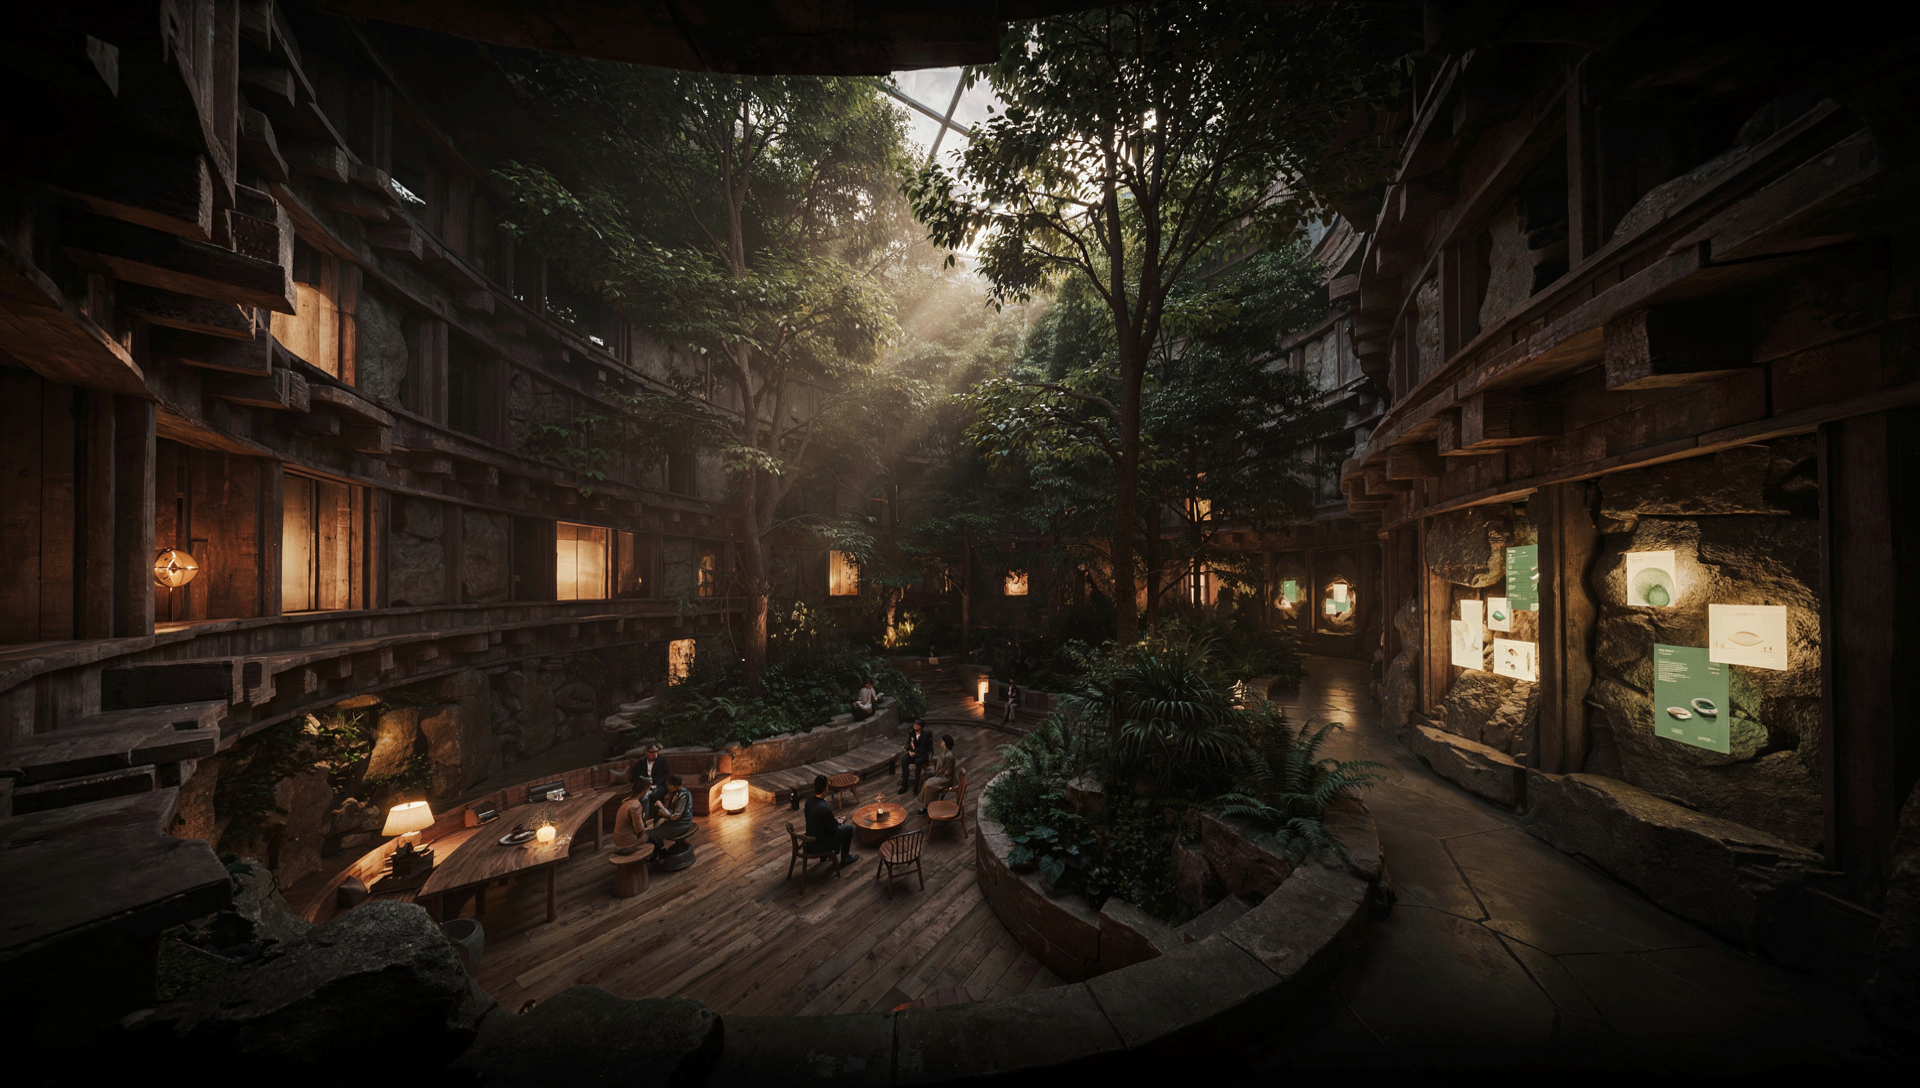
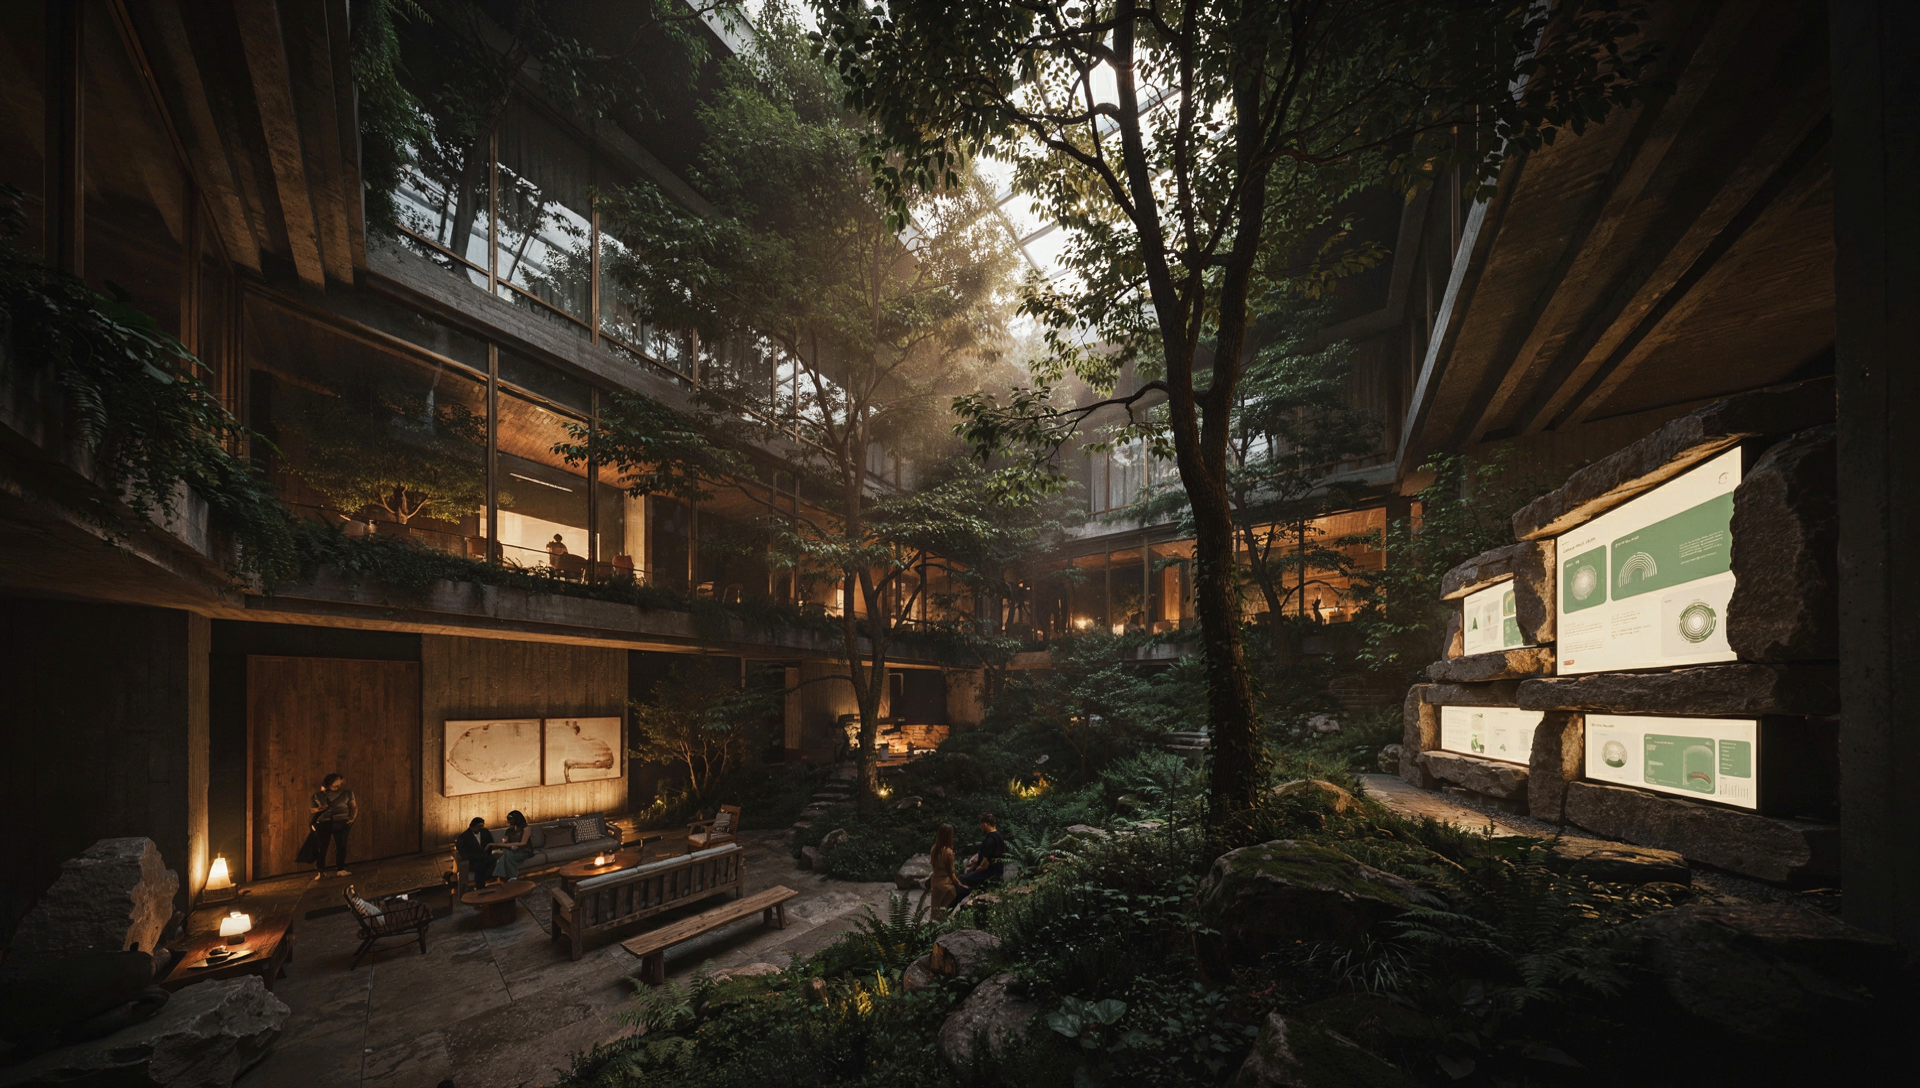
feat(assets): M2 imagery — Conservatory heroes, per-project marks, hero-fill fixes
Wallace-rendered finals wired across the portfolio (ADR-013 / DESIGN.md).

Heroes (V4_QUALITY_48): home atrium, a new /work atelier hero, Wallace
self-portrait, IDR admin-tasks crop, SOW toolbox-card crop.

Per-project drafted-object marks: new mark?:{src,thumb,alt} on CaseStudy.
Five instrument schematics (Caption Engine, Reading Loom, Scoping Armature,
First-Light, Doctrine Core) on the case-study shells, plus an infrastructure
lattice for the hub. Square thumbs on the work index, 4:5 plates on the
shells. All baked text stripped from marks (Ideogram gibberish risk).

Fixes:
- ImageBlock: bare covers now object-cover to fill the frame, per the
  component's own spec; resolves hero letterboxing.
- HeroScrim: token-only scrim; top fade blends a full-bleed hero under the
  sticky header (worst in light mode). Used by home + /work heroes.
- Wallace case study features the atelier render in-body.

lint + build + 139 tests green.

diff --git a/src/components/content/HeroScrim.tsx b/src/components/content/HeroScrim.tsx
@@ -1,0 +1,51 @@
+/**
+ * HeroScrim — token-only gradient overlay for full-bleed hero images.
+ *
+ * Two jobs:
+ *  1. Legibility: darken the edges where copy sits (bottom, left) so type holds
+ *     contrast over a busy atmospheric image.
+ *  2. Seam: fade the TOP edge into the page background so a hero that sits under
+ *     the sticky, translucent header doesn't meet it with a hard contrast line.
+ *     This matters most in light mode, where a dark hero against the light
+ *     header reads as an abrupt seam (Justin, 2026-06-25).
+ *
+ * All layers resolve to `--theme-bg-deep`, so the scrim re-tints itself per mode
+ * (humus-black at night, sand-light by day) and stays within the OKLCH token
+ * system — no literal colors. Stops are tunable per call site.
+ */
+interface HeroScrimProps {
+  /** Fade the top edge into the page bg (blends under the sticky header). */
+  top?: boolean;
+  /** Darken the bottom edge for copy legibility. */
+  bottom?: boolean;
+  /** Darken the left edge to anchor lower-left copy. */
+  left?: boolean;
+  /** How far down the top fade reaches before going transparent. */
+  topStop?: string;
+  className?: string;
+}
+
+export function HeroScrim({
+  top = true,
+  bottom = true,
+  left = false,
+  topStop = "16%",
+  className = "",
+}: HeroScrimProps) {
+  const layers = [
+    top &&
+      `linear-gradient(to bottom, var(--theme-bg-deep) 0%, transparent ${topStop})`,
+    bottom &&
+      "linear-gradient(to top, var(--theme-bg-deep) 6%, transparent 64%)",
+    left &&
+      "linear-gradient(to right, var(--theme-bg-deep) 4%, transparent 52%)",
+  ].filter(Boolean) as string[];
+
+  return (
+    <div
+      aria-hidden="true"
+      className={`absolute inset-0 -z-10 ${className}`}
+      style={{ background: layers.join(", ") }}
+    />
+  );
+}

diff --git a/src/pages/WorkPage.tsx b/src/pages/WorkPage.tsx
@@ -7,9 +7,11 @@ import { RevealOnScroll } from "@/components/effects/RevealOnScroll";
 import {
   DossierFrame,
   DossierTags,
+  RegistrationMark,
   TocLinkList,
   type TocItem,
 } from "@/components/fieldnotebook";
+import { HeroScrim } from "@/components/content/HeroScrim";
 import { caseStudies, metaCaseStudy } from "@core/content/case-studies";
 
 // Studies folded behind a hub are reached through it, not listed here.
@@ -21,7 +23,8 @@ const tocItems: TocItem[] = indexedStudies.map((study, i) => ({
   to: `/work/${study.slug}`,
   // No leading number — the thumbnail carries the visual index.
   thumbnail: {
-    alt: `${study.title} project mark`,
+    src: study.mark?.thumb,
+    alt: study.mark?.alt ?? `${study.title} project mark`,
     placeholder: `Fig.${String(i + 1).padStart(2, "0")}`,
   },
   description: study.subtitle,
@@ -92,20 +95,39 @@ export function WorkPage() {
         <link rel="canonical" href="https://justinh.design/work" />
       </Helmet>
 
-      <section className="py-24 sm:py-32">
-        <Container>
-          <p className="font-mono text-xs uppercase tracking-wider text-accent-primary">
-            Field notebook
-          </p>
-          <h1 className="mt-4 font-display text-3xl leading-tight tracking-tight text-text-primary sm:text-4xl">
-            Work
-          </h1>
-          <p className="mt-5 max-w-[65ch] font-body text-lg leading-normal text-text-secondary">
-            A working index of case files spanning AI strategy, enterprise UX, and
-            design systems. 
-          </p>
+      {/* Atelier hero - the workshop the case files come from. Field Notebook
+          grammar: registration marks frame the type, humus scrim anchors it
+          lower-left, top fade blends under the sticky header. */}
+      <section className="relative isolate flex min-h-[56vh] items-end overflow-hidden bg-bg-deep">
+        <img
+          src="/images/work-hero.png"
+          alt="A designer's atelier at night within a biophilic habitat, warm brass light over a workbench of instruments"
+          className="absolute inset-0 -z-10 h-full w-full object-cover object-center"
+          loading="eager"
+          fetchPriority="high"
+        />
+        <HeroScrim top bottom left />
 
-          <RevealOnScroll className="mt-14">
+        <Container className="relative z-10 pb-14 pt-32 sm:pb-20 sm:pt-40">
+          <div className="relative max-w-[60ch] py-8 pl-9 sm:py-10 sm:pl-14">
+            <RegistrationMark corners={["tl", "bl"]} />
+            <p className="font-mono text-xs uppercase tracking-wider text-accent-primary">
+              Field notebook
+            </p>
+            <h1 className="mt-4 font-display text-4xl leading-tight tracking-tight text-text-primary sm:text-5xl">
+              Work
+            </h1>
+            <p className="mt-5 max-w-[54ch] font-body text-lg leading-normal text-text-secondary">
+              A working index of case files spanning AI strategy, enterprise UX,
+              and design systems.
+            </p>
+          </div>
+        </Container>
+      </section>
+
+      <section className="py-20 sm:py-24">
+        <Container>
+          <RevealOnScroll>
             <FeaturedEntry />
           </RevealOnScroll>
 

diff --git a/core/content/case-studies.ts b/core/content/case-studies.ts
@@ -46,6 +46,15 @@ export interface CaseStudy {
     alt: string;
     placeholder?: string;
   };
+  /** Per-project drafted-object mark (ADR-013 / DESIGN.md): a modern
+   *  technical-schematic specimen of a fantastical instrument. `src` is the
+   *  4:5 plate (DraftedObjectMark on the case-study shell); `thumb` is the
+   *  square work-index crop. Hub studies may carry only a `thumb`. */
+  mark?: {
+    src?: string;
+    thumb?: string;
+    alt: string;
+  };
 }
 
 export const caseStudies: CaseStudy[] = [
@@ -59,6 +68,10 @@ export const caseStudies: CaseStudy[] = [
       src: '/images/design-infrastructure.png',
       alt: 'Design Infrastructure: the origin and the current state of an AI-native design practice',
       placeholder: 'Design Infrastructure hub cover (Wallace render pending)',
+    },
+    mark: {
+      thumb: '/images/design-infrastructure-thumb.png',
+      alt: 'Drafted technical schematic of a modular lattice substrate with instruments docked into its nodes',
     },
     hub: {
       headline: 'I build design infrastructure, not just designs.',
@@ -129,6 +142,10 @@ export const caseStudies: CaseStudy[] = [
       alt: 'AI workshop presentation showing the 6-step prototyping process',
       placeholder: 'Screenshot of "Building with AI Tools" presentation title slide, or a composite showing the Define→Scope→Plan→Build→Test→Iterate workflow',
     },
+    mark: {
+      src: '/images/ai-leadership-mark.png',
+      alt: 'Drafted technical schematic of a first-light apparatus, a single spark igniting a ring of small lamps',
+    },
   },
   {
     slug: 'doctrine-not-prompts',
@@ -150,6 +167,10 @@ export const caseStudies: CaseStudy[] = [
       alt: 'Team agent answering a project-specific question by reading version-controlled doctrine files',
       placeholder: 'Split view: a prompt to the team agent on the left, its project-specific answer on the right, with VECTOR.md, CLAUDE.md, and ARCHITECTURE.md labeled as the doctrine it read',
     },
+    mark: {
+      src: '/images/doctrine-not-prompts-mark.png',
+      alt: 'Drafted technical schematic of a governing core directing a calm orbit of small satellite forms',
+    },
   },
   {
     slug: 'instant-sow',
@@ -161,9 +182,14 @@ export const caseStudies: CaseStudy[] = [
       label: 'per SOW, observed',
     },
     heroImage: {
-      src: '/images/sow-toolbox.png',
+      src: '/images/sow-toolbox-hero.png',
       alt: 'My SOW Toolbox interface showing Upload, Describe, and Recycle options',
       placeholder: 'High-fidelity mockup of the "My Scope of Work Toolbox" UI showing the three AI-assisted paths: Upload Files, Describe Your Project, Select Previous SOW',
+    },
+    mark: {
+      src: '/images/instant-sow-mark.png',
+      thumb: '/images/instant-sow-thumb.png',
+      alt: 'Drafted technical schematic of a modular scoping armature, a jointed arm assembling measured parts on a base',
     },
   },
   {
@@ -176,9 +202,14 @@ export const caseStudies: CaseStudy[] = [
       label: 'less PSA review time per loan',
     },
     heroImage: {
-      src: '/images/idr-hifi.png',
-      alt: 'Property Admin Page showing extracted data alongside original document viewer',
+      src: '/images/idr-hero.png',
+      alt: 'Property Asset review page with an Action Required panel flagging six failed rules, each with a remark and rationale, above a pass/fail rules table',
       placeholder: 'High-fidelity mockup of the Property Admin Page with document viewer panel, extracted data fields, and rule override controls',
+    },
+    mark: {
+      src: '/images/instant-doc-review-mark.png',
+      thumb: '/images/instant-doc-review-thumb.png',
+      alt: 'Drafted technical schematic of a reading-and-extraction instrument lifting ordered points off a flat plane',
     },
   },
   {
@@ -194,6 +225,11 @@ export const caseStudies: CaseStudy[] = [
       src: '/images/wallace-hero.png',
       alt: 'Cinematic north-star render: a designer atelier at night in warm brass light with a Finn Juhl chair silhouette',
       placeholder: 'Wallace north-star hero: dark atmospheric atelier interior, volumetric warm-brass light through haze, a Finn Juhl lounge chair in shadow, a single dusty-magenta glow, with the structured JSON caption that produced it shown alongside',
+    },
+    mark: {
+      src: '/images/wallace-mark.png',
+      thumb: '/images/wallace-thumb.png',
+      alt: 'Drafted technical schematic of an optical compiler instrument resolving structured rays into one plane of light',
     },
   },
 ];

diff --git a/src/components/content/Hero.tsx b/src/components/content/Hero.tsx
@@ -1,6 +1,7 @@
 import { Container } from "@/components/layout/Container";
 import { Button } from "@/components/interactive/Button";
 import { RegistrationMark } from "@/components/fieldnotebook";
+import { HeroScrim } from "@/components/content/HeroScrim";
 
 /**
  * Home hero - "The Conservatory" register (ADR-013 / DESIGN.md).
@@ -24,16 +25,10 @@ export function Hero() {
         loading="eager"
         fetchPriority="high"
       />
-      {/* Warm scrim for legibility - humus-black, densest at lower-left.
-          References tokens only (bg-deep -> transparent), no literal color. */}
-      <div
-        aria-hidden="true"
-        className="absolute inset-0 -z-10"
-        style={{
-          background:
-            "linear-gradient(to top, var(--theme-bg-deep) 6%, transparent 64%), linear-gradient(to right, var(--theme-bg-deep) 4%, transparent 52%)",
-        }}
-      />
+      {/* Warm scrim - legibility at lower-left, plus a top fade so the image
+          blends under the sticky translucent header instead of meeting it with
+          a hard seam (most visible in light mode). Token-only, re-tints per mode. */}
+      <HeroScrim top bottom left />
 
       <Container className="relative z-10 pb-16 pt-32 sm:pb-24 sm:pt-44">
         {/* Type column framed as an instrument plate - registration marks in

diff --git a/src/components/content/ImageBlock.tsx b/src/components/content/ImageBlock.tsx
@@ -72,7 +72,12 @@ export function ImageBlock({
               src={src}
               alt={alt}
               loading="lazy"
-              className="absolute inset-0 h-full w-full object-contain"
+              className={cn(
+                "absolute inset-0 h-full w-full",
+                // Covers (DossierFrame heroes) fill to the frame edge; body
+                // figures stay fully visible. Matches the `bare` contract.
+                bare ? "object-cover" : "object-contain"
+              )}
             />
           </div>
         ) : (

diff --git a/src/components/content/CaseStudyPageTemplate.tsx b/src/components/content/CaseStudyPageTemplate.tsx
@@ -133,7 +133,8 @@ export function CaseStudyPageTemplate({ slug }: CaseStudyPageProps) {
               </div>
               <div className="lg:col-span-5">
                 <DraftedObjectMark
-                  alt={`${study.title} project mark`}
+                  src={study.mark?.src}
+                  alt={study.mark?.alt ?? `${study.title} project mark`}
                   kicker="Specimen"
                   caption={`Fig. ${slugify(study.slug)}`}
                   placeholder="Drafted object pending"

diff --git a/src/pages/HomePage.tsx b/src/pages/HomePage.tsx
@@ -23,7 +23,8 @@ export function HomePage() {
     to: `/work/${study.slug}`,
     label: study.title,
     thumbnail: {
-      alt: `${study.title} project mark`,
+      src: study.mark?.thumb,
+      alt: study.mark?.alt ?? `${study.title} project mark`,
       placeholder: `Fig.${String(i + 1).padStart(2, "0")}`,
     },
     kicker: study.tags.slice(0, 2).join(" / "),

diff --git a/core/content/wallace.md b/core/content/wallace.md
@@ -24,6 +24,9 @@ That's important because Wallace doesn't work alone. It sits inside my Impeccabl
 
 I didn't build Wallace to talk about it. I built it to make a decision. When this portfolio needed a new visual direction, I used Wallace to render four full north-star directions, monograph, atelier, field notebook, and a tech-and-nature conservatory, as finished hero images rather than mood boards. Eight heroes, fixed seeds, captions saved per image, about seven minutes per render on my M5 Max.
 
+![A designer's atelier at night within a biophilic habitat, warm brass light over a workbench of optical instruments, one of the four north-star directions Wallace rendered](/images/wallace-atelier.png)
+*The atelier direction, rendered by Wallace as a finished hero rather than a mood board. The instrument on the bench is the kind of object the schematic marks across this site abstract.*
+
 Seeing the directions fully realized gave me the power to speak my intent into existence. The conservatory thesis got rejected in its first cut because the renders read as post-apocalyptic instead of inhabited, and I could see that precisely because the image was specific enough to be wrong and I understood what I needed to change. I re-cut the caption, demoted the green to a sage accent, brought the warmth up, put the instrument back in active use, and the direction landed. That whole conversation happened in the schema, one variable at a time. Renders fed straight into the visual-direction decision record. My tools authored the evidence the call was made on.
 
 ## Results